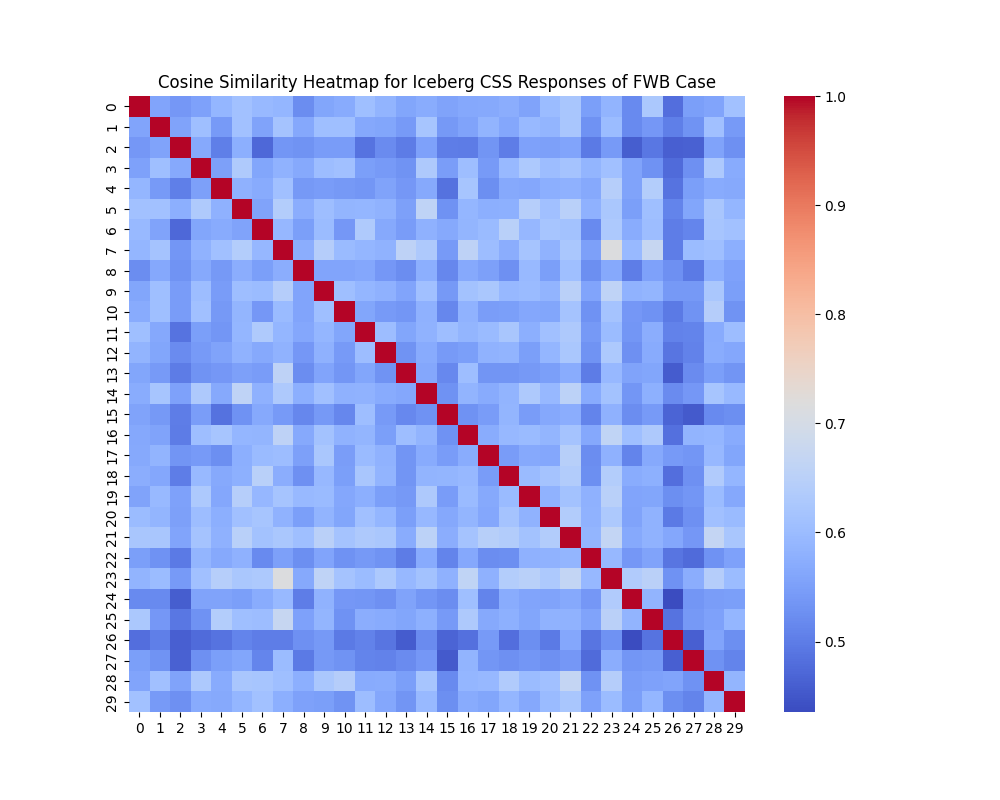
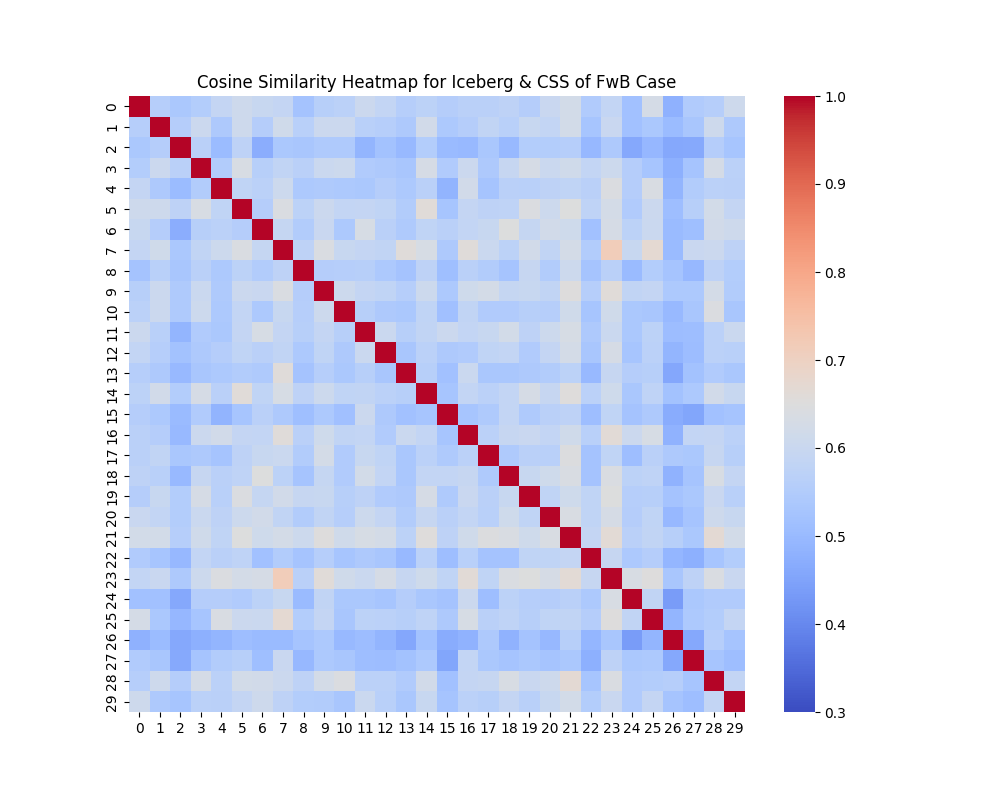
Finish updating the heatmap with uniform temperature meters for each group (BERT: 0.94 to 1, normal: 0.3 to 1)

diff --git a/nlp_analysis_scripts/cos_viz.py b/nlp_analysis_scripts/cos_viz.py
@@ -4,10 +4,10 @@ import matplotlib.pyplot as plt
 
 # Loading the similarity matrices
 # cosine_sim_matrix = np.load('bert_cosine_similarity_matrix.npy')
-cosine_sim_matrix = np.load('cosine_sim_matrix_BERT_iceberg_css_hfa.npy')
+cosine_sim_matrix = np.load('cosine_sim_matrix_IoA_hfa.npy')
 
 plt.figure(figsize=(10, 8))
-sns.heatmap(cosine_sim_matrix, annot=False, cmap='coolwarm', square=True)
-plt.title('Cosine Similarity Heatmap for Iceberg & CSS Responses of HfA Case (BERT)')
-plt.savefig('cos_sim_BERT_iceberg_css_hfa.png')
+sns.heatmap(cosine_sim_matrix, annot=False, cmap='coolwarm', square=True, vmin=0.3, vmax=1)
+plt.title('Cosine Similarity Heatmap for IoA of HfA Case')
+plt.savefig('cos_sim_IoA_hfa.png')
 plt.show()
